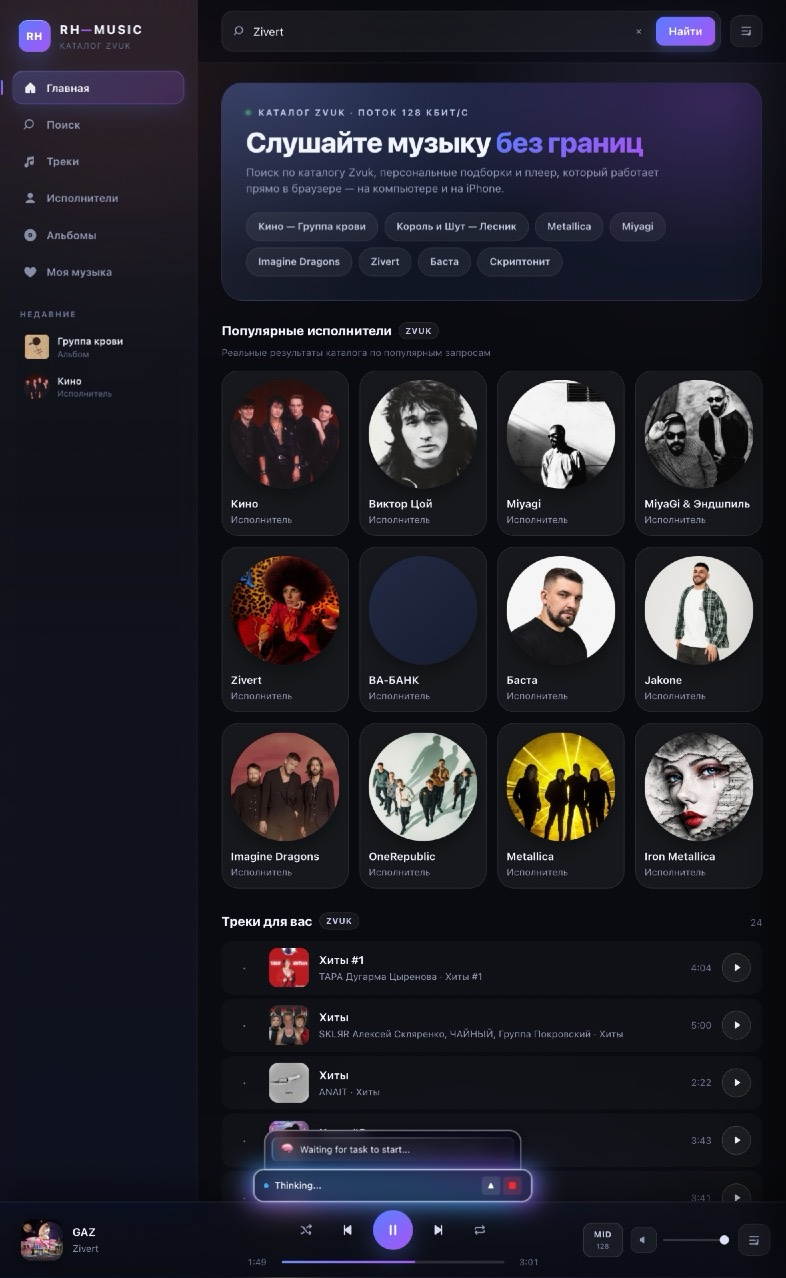
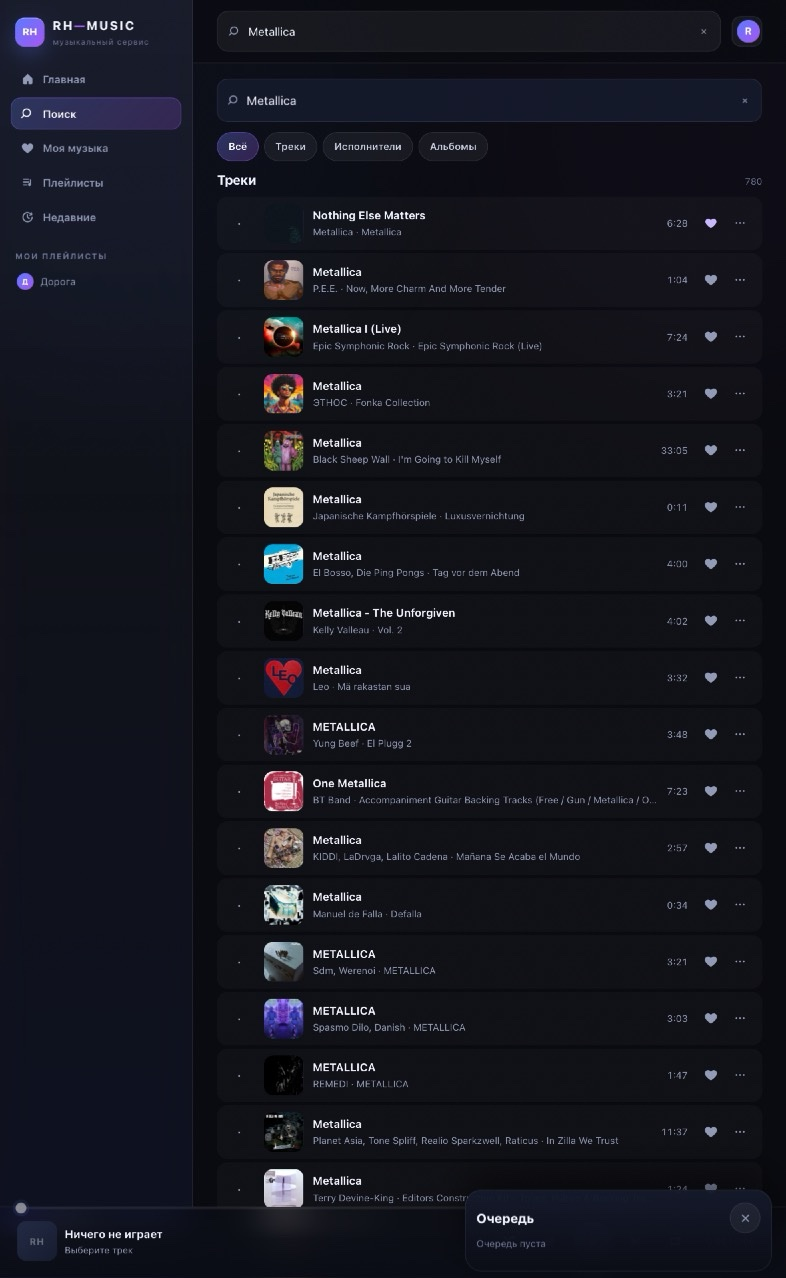
RH—MUSIC: полноэкранный «Сейчас играет» поверх мини-плеера, актуальные скриншоты (iPhone + Desktop)

diff --git a/web/app.js b/web/app.js
@@ -1473,6 +1473,9 @@ function openNowPlaying(open = true) {
   if (open) { scrim.hidden = false; requestAnimationFrame(() => scrim.classList.add('is-open')); }
   else if (!S.drawerOpen && !S.sheetOpen) hideScrim();
   document.body.classList.toggle('is-locked', open || S.drawerOpen || S.sheetOpen);
+  // Safari/WebKit иногда рисует полосы с backdrop-filter выше полноэкранного плеера —
+  // на время показа «Сейчас играет» убираем мини-плеер и таббар из отрисовки.
+  document.body.classList.toggle('np-open', open);
   renderQueue();
 }
 

diff --git a/web/styles.css b/web/styles.css
@@ -549,6 +549,11 @@ input, textarea { font: inherit; }
 
 .now-playing.is-open { opacity: 1; visibility: visible; transform: none; }
 
+/* Полноэкранный плеер перекрывает мини-плеер и таббар: в WebKit слои с
+   backdrop-filter иначе могут отрисоваться поверх него. */
+body.np-open .player,
+body.np-open .tabbar { visibility: hidden; pointer-events: none; }
+
 .np-bg {
   position: absolute; inset: -15%;
   background:

diff --git a/README.md b/README.md
@@ -60,6 +60,23 @@ Cloudflare Worker  rh-music-api
 перемешивание, повтор, Media Session (экран блокировки), Now Playing на весь экран.
 Качество фиксировано: всегда MID (MP3 128 кбит/с) — переключателя качества в интерфейсе нет.
 
+## Интерфейс
+
+Мобильная версия — основная: нижняя навигация (Главная, Поиск, Моя музыка, Плейлисты,
+Недавние), компактный мини-плеер и полноэкранный «Сейчас играет». На широких экранах
+(≥1024 px) появляется боковая панель, таббар скрывается.
+
+| iPhone | | |
+|---|---|---|
+| ![Главная](docs/screenshot-iphone-home.jpg) | ![Поиск](docs/screenshot-iphone-search.jpg) | ![Моя музыка](docs/screenshot-iphone-library.jpg) |
+| Главная: рекомендации по активности | Поиск по каталогу | Личная библиотека |
+| ![Плейлисты](docs/screenshot-iphone-playlists.jpg) | ![Плейлист](docs/screenshot-iphone-playlist.jpg) | ![Сейчас играет](docs/screenshot-iphone-nowplaying.jpg) |
+| Список плейлистов | Плейлист: порядок, воспроизведение | Полноэкранный плеер |
+
+| Десктоп | |
+|---|---|
+| ![Главная (десктоп)](docs/screenshot-desktop-home.jpg) | ![Поиск (десктоп)](docs/screenshot-desktop-search.jpg) |
+
 ## Структура D1
 
 | Таблица | Назначение | Ключи и индексы |
